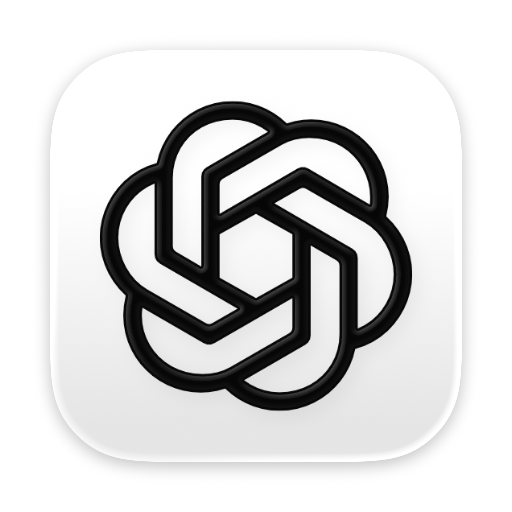
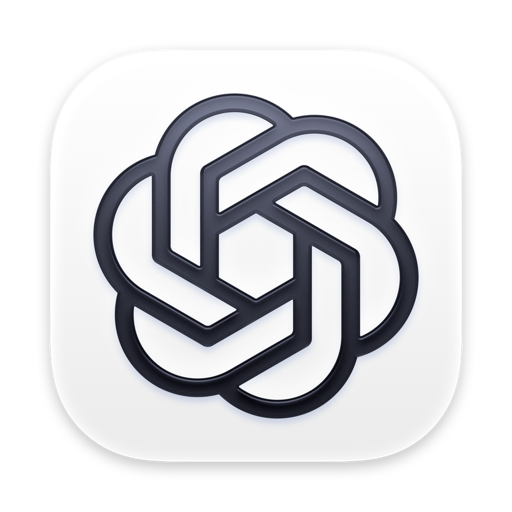
fix: point chatgpt to the current desktop app distribution
- new stable download link, version 26.915.31945, arm64 only
- refreshed icon and about text, changelog updated

diff --git a/CHANGELOG.md b/CHANGELOG.md
@@ -4,6 +4,18 @@ Tutte le implementazioni completate con successo, in ordine cronologico inverso.
 
 ## 2026-09-21
 
+- **`chatgpt` spostato alla distribuzione attuale di OpenAI**: il link
+  precedente serviva una build vecchia (`com.openai.chat` 1.2026.183, 9 luglio
+  2026), mentre l'app corrente, confermata dalla finestra "Informazioni su
+  ChatGPT" (Versione 26.915.31945, 18 settembre 2026), è la `ChatGPT.app`
+  `com.openai.codex` distribuita da `codex-app-prod`. Nuovo link stabile
+  `persistent.oaistatic.com/codex-app-prod/ChatGPT.dmg` (200, 645 MB),
+  verificato sul DMG scaricato: versione 26.915.31945, **solo arm64** (`lipo`),
+  macOS 13+; `version` aggiornata a `26.915.31945` (coincide con appcast e cask
+  Homebrew) e `arch` da `universal` a `arm64`. Icona rigenerata da quella
+  dell'app (nodo in grigio-blu scuro). La build Intel ha solo URL con la versione
+  nel nome (`ChatGPT-darwin-x64-<ver>.zip`), quindi non è pubblicata; il testo
+  `about` lo dice.
 - **Aggiunto il campo `version` alle 11 app senza `repo`** (1password,
   appcleaner, bazaar, chatgpt, claude, claudete, cogito, krita,
   microsoft-365, onyx, spotify), le uniche per cui il consumer non può
